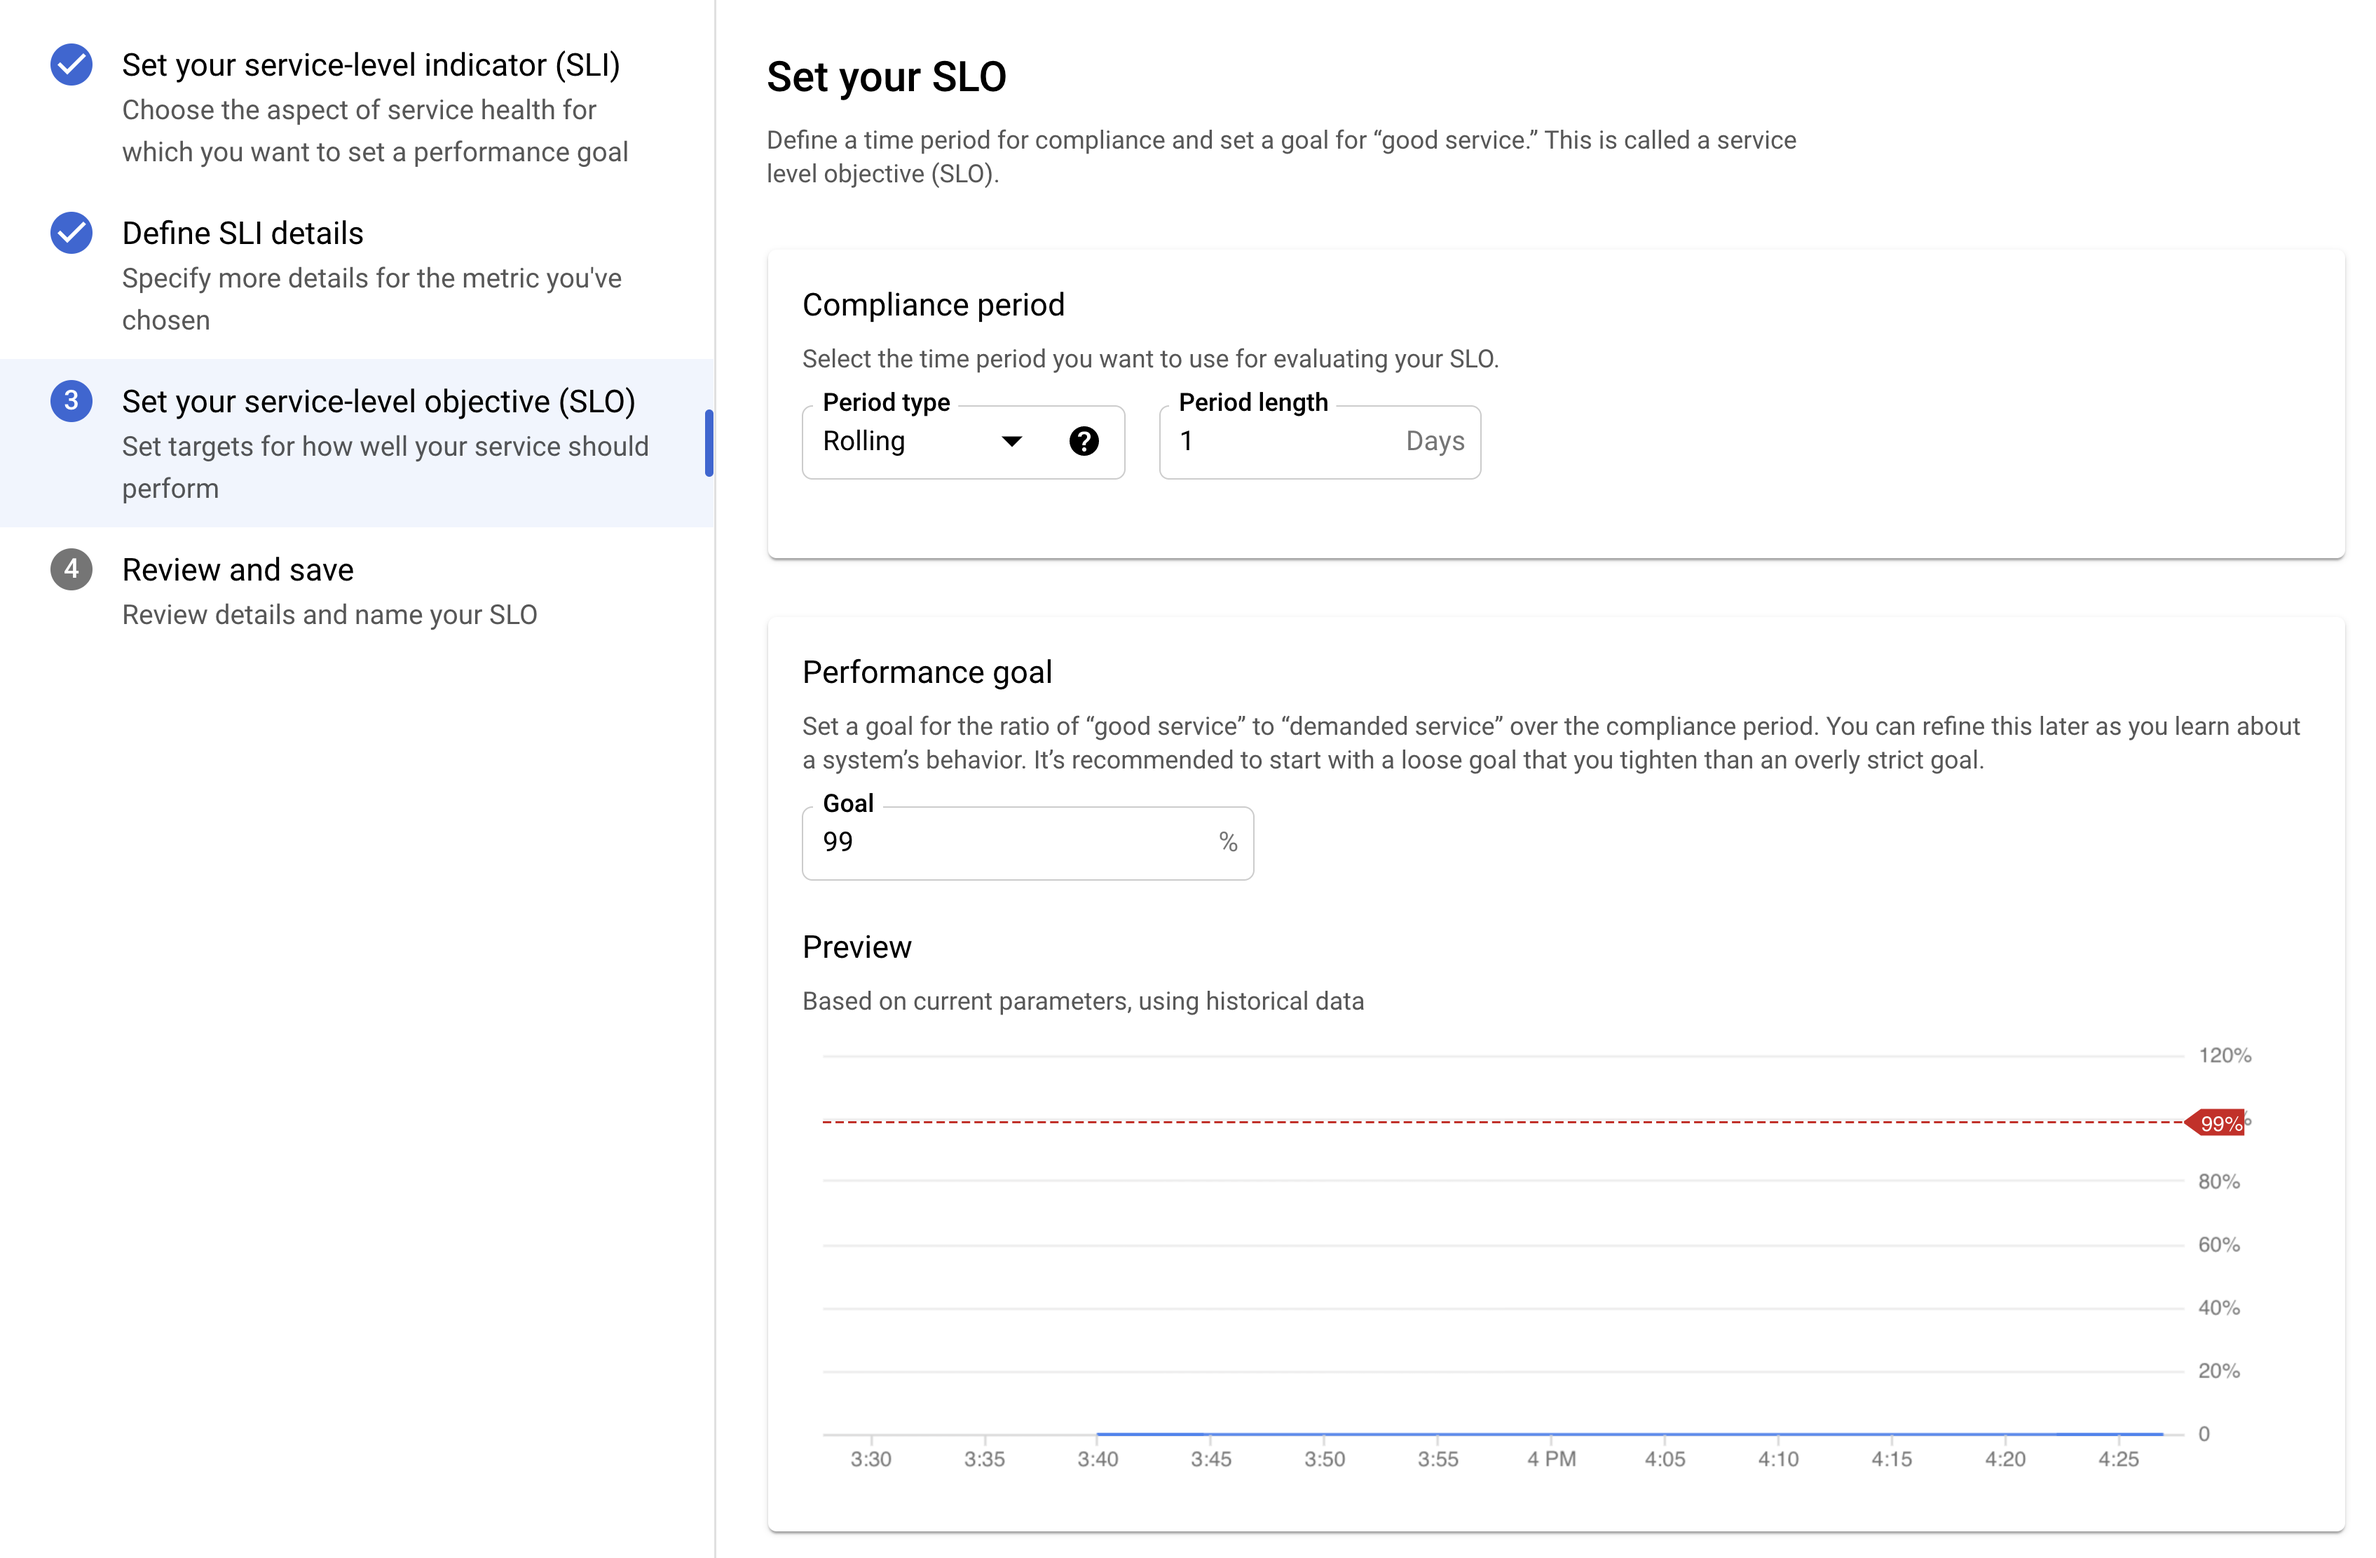
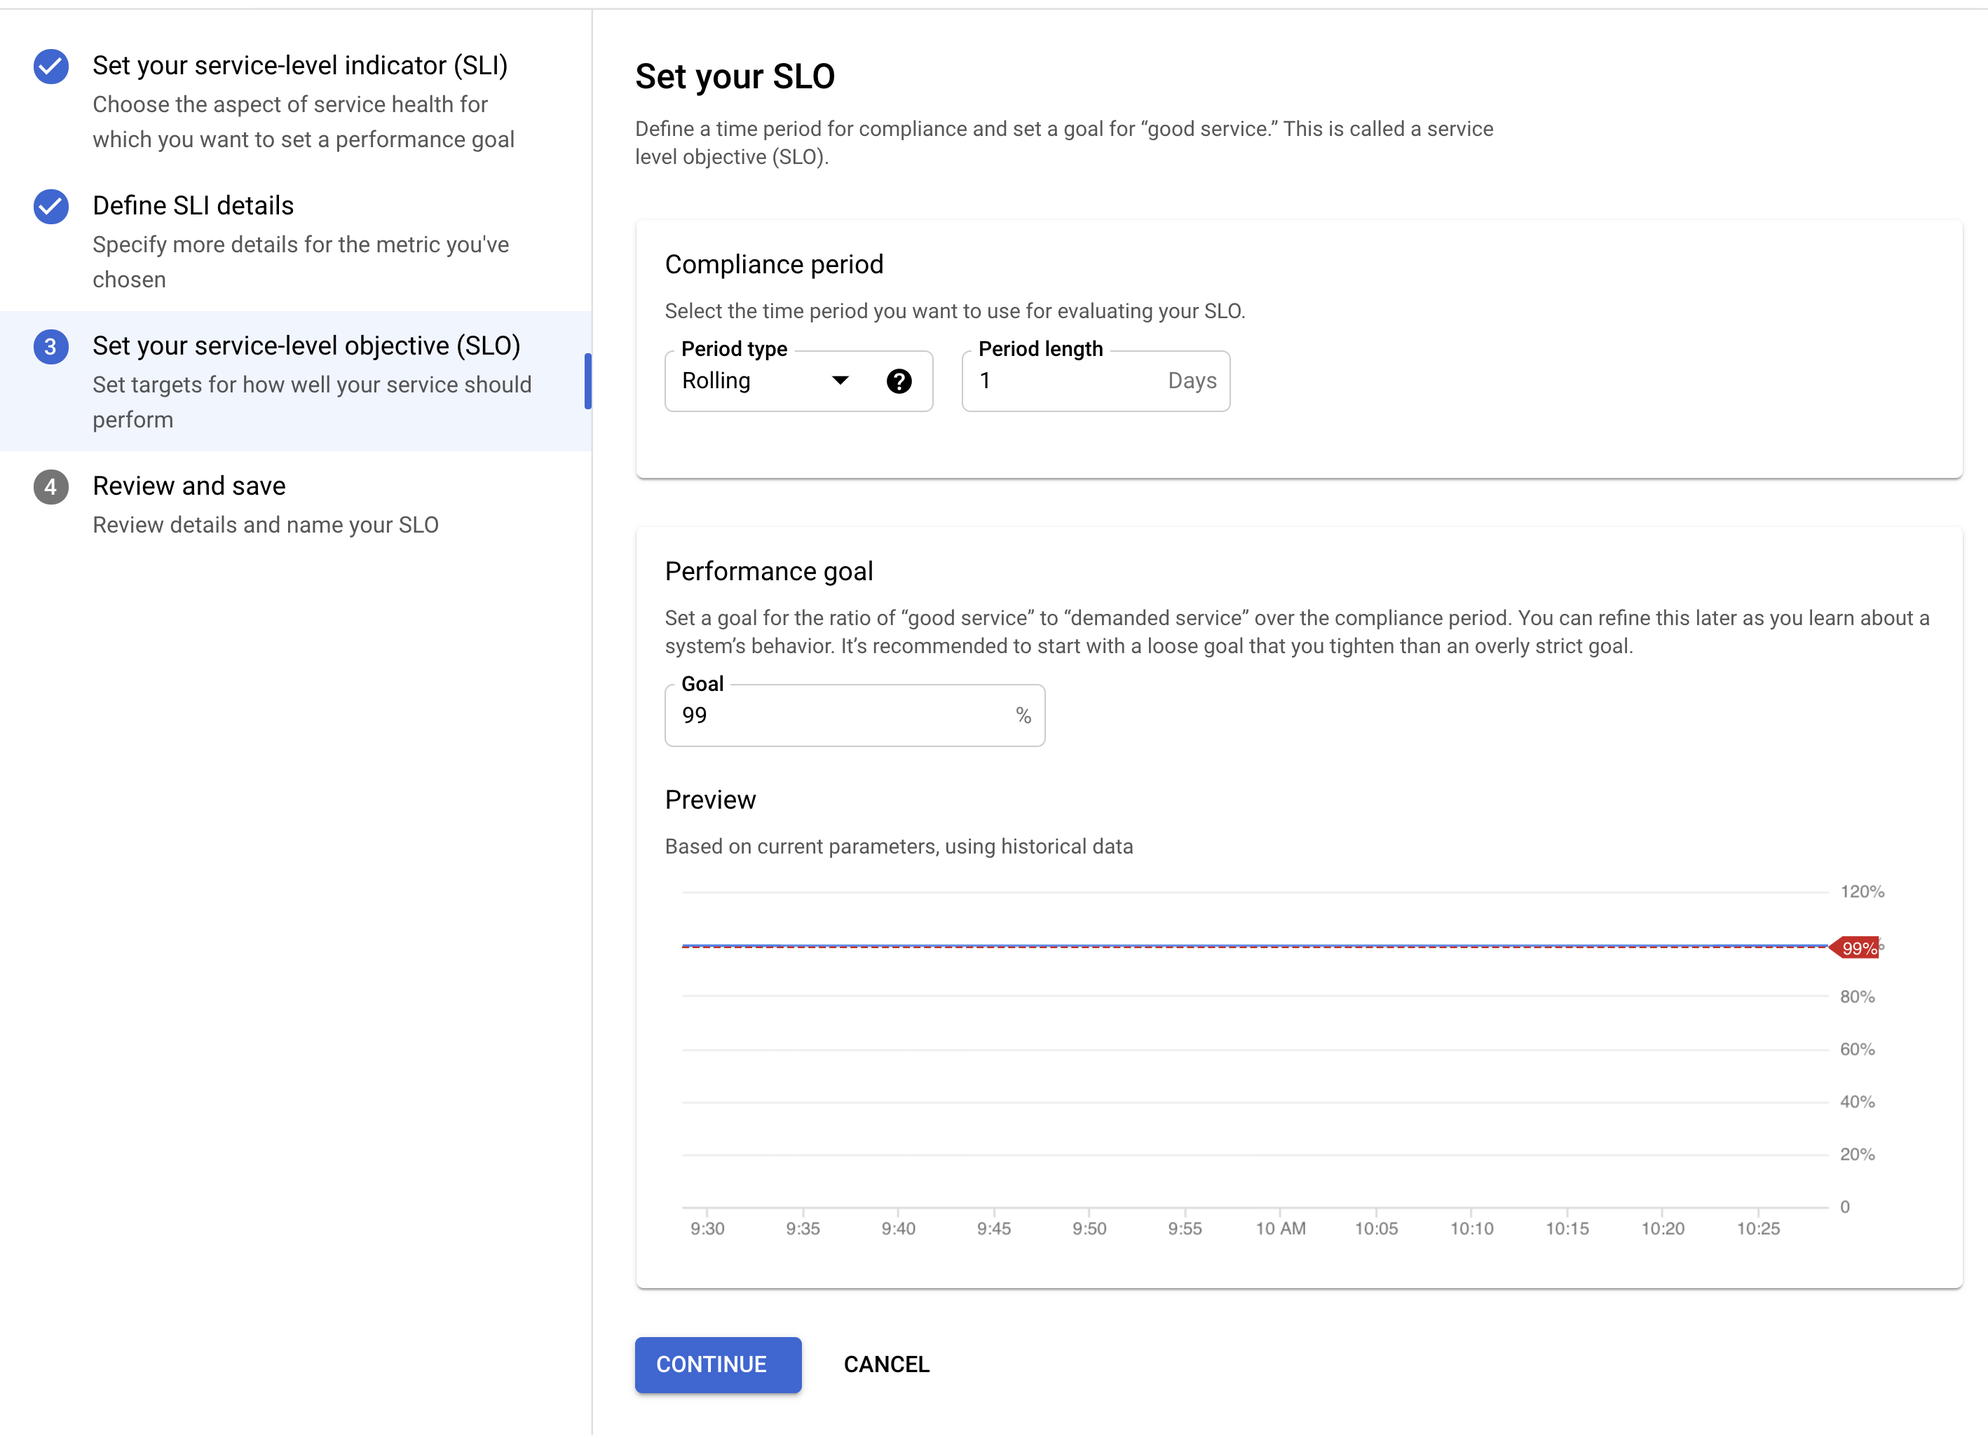
save

diff --git a/README.md b/README.md
@@ -107,11 +107,11 @@ Now that we know what SLOs are and how ASM generates the SLI metrics for us, let
 
 ![](screenshots/txn-overview.png)
 
-#### 2. Set the SLI to **latency** and **request-based**. Click **Continue.** 
+#### 2. Set the SLI to **Availability** and **request-based**. Click **Continue.** 
 
 ![](screenshots/slo1.png)
 
-#### 3. Set the latency threshold to **100ms**. Click **Continue**. 
+#### 3. View the **Define SLI Details** preview window, then click **continue.** 
 
 ![](screenshots/slo2.png)
 
@@ -123,13 +123,15 @@ Now that we know what SLOs are and how ASM generates the SLI metrics for us, let
 
 ![](screenshots/slo4.png)
 
-#### 6. You should be redirected to the Health page for the transactionhistory service, and you should see your new SLO in the list. It should be passing, with a green check-mark on the left side of the screen. 
+#### 6. You should be redirected to the Health page for the transactionhistory service, and you should see your new availability SLO in the list. It should be passing, with a green check-mark on the left side of the screen. 
 
 ![](screenshots/passing-slo.png)
 
 #### 7. Click the drop-down error in your SLO, and click **Error budget.** 
 
-The [error budget of an SLO](https://cloud.google.com/stackdriver/docs/solutions/slo-monitoring#defn-error-budget) is `1 minus the SLO` - so in our case, we have an error budget of **1%** because the SLO performance goal is **99%**. Because our SLO is based on latency, the error budget means that only 1% (or less) of requests in the last day can take longer than 10 milliseconds. 
+The [error budget of an SLO](https://cloud.google.com/stackdriver/docs/solutions/slo-monitoring#defn-error-budget) is `1 minus the SLO` - so in our case, we have an error budget of **1%** ("bad" requests over the last 24 hours) because the SLO performance goal is **99%**. 
+
+![](screenshots/error-budget.png)
 
 ## Part C - Setting up SLO Alerting 
 
@@ -147,14 +149,16 @@ You can set up alerting using the [Console](https://cloud.google.com/stackdriver
 
 #### 4. Return to the ASM dashboard and navigate back to [your transactionhistory Service Health dashboard](https://console.cloud.google.com/anthos/services/service/default/transactionhistory/health). 
 
-#### 5. Next to your Latency SLO, click **Create SLO Alert.** 
+#### 5. Next to your Availability SLO, click **Create SLO Alert.** 
 
-ASM SLO alerting is based on something called **[burn rate](https://cloud.google.com/stackdriver/docs/solutions/slo-monitoring/alerting-on-budget-burn-rate)**, which is a measure of how fast you're consuming, or "burning," through your error budget. What this means is that you can set up an alert to fire even before your SLO fails. 
+ASM SLO alerting is based on something called **[burn rate](https://cloud.google.com/stackdriver/docs/solutions/slo-monitoring/alerting-on-budget-burn-rate)**, which is a measure of how fast you're consuming, or "burning," through your error budget. What this means is that you can set up an alert to fire before your SLO actually fails. 
 
 #### 6. In the Create SLO Alert window, set the following fields:
-- Keep the default Display Name (`Burn rate on 99% - Latency - Rolling day`). 
+- Keep the default Display Name (`Burn rate on 99% - Availability - Rolling day`). 
 - Set `Lookback Duration` to **1 minute**. 
 - Keep the default `Burn rate threshold` (10).
+
+![](screenshots/create-slo-alert.png)
 
 Then, click **Next.** 
 
@@ -172,9 +176,9 @@ Now on the right side of the Health view for transactionhistory, you should see 
 
 ## Part D - Debugging a Service with ASM 
 
-Let's simulate a service outage in order to break our transactionhistory SLO and fire the alert to our email. To do this, we'll pretend that we're updating the transactionhistory service with some new configuration, and this causes an unexpected outage. 
+Let's simulate a service outage in order to break our transactionhistory SLO and fire the alert to our email. To do this, we'll simulate a new release of transactionhistory that causes a 100% error rate - effectively bringing down the entire service. We have provided a transactionhistory image (`gcr.io/bank-of-anthos/transactionhistory:v0.4.3-simulate-outage`) that returns a 500 error for every HTTP endpoint.   
 
-#### 1. Return to the terminal, and apply an updated transactionhistory deployment. (To simulate an outage scenario, this Deployment has 5 seconds of injected latency for every request.) 
+#### 1. Return to the terminal, and apply the simulated outage resource. 
 
 ```
 kubectl apply -f simulate-outage/transactionhistory.yaml
@@ -187,52 +191,18 @@ deployment.apps/transactionhistory configured
 service/transactionhistory unchanged
 ```
 
-#### 2. Wait for the new transactionhistory pod to be ready, and for the old pod to terminate.  
+#### 2. Navigate back to the ASM dashboard for the transactionhistory service, and from the left sidebar, click **Metrics.** 
 
-```
-kubectl get pods | grep transactionhistory
-```
-
-Expected output (after 1-2 minutes): 
-
-```
-transactionhistory-68bb6559b4-b9n2v   2/2     Terminating   0          74m
-transactionhistory-6b699f4b96-gdqnv   2/2     Running       0          72s
-```
-
-#### 3. Navigate back to the ASM dashboard for the transactionhistory service, and from the left sidebar, click **Metrics.** 
-
-Scroll down to **Latency.** We should be able to watch the generated metrics flow in, and we should see a major latency spike, from ~5 milliseconds on average per request, up to 4 or 5 seconds. 
+Scroll down to **Error rate.** We should be able to watch the generated metrics flow in, and we should eventually see a 100% error rate for transactionhistory, 
 
 ![](screenshots/latency-spike.png)
 
 Under the hood, the ASM SLO is rapidly burning through its error budget for the number of transactionhistory requests that can exceed the 10 millisecond threshold. (Because 100% of requests, now, exceed that SLO threshold.) This means we just caused transactionhistory to exceed its burn rate threshold of 10%. 
 
-#### 4. Navigate to your email inbox to view the SLO alert email.
+#### 3. Return to the transactionhistory "Health" view. You should soon see an alert firing. 
 
-Let's pretend that we don't know what's causing this latency in transactionhistory - in a real outage scenario, it's unlikely that you'll know right away what caused the issue. ASM and Google Cloud provide several tools to help you debug during service degradation. 
 
-####  5. From the transactionhistory view in the ASM dashboard, click **Diagnostics.**
-
-Here, we can see all recent error logs for this service. 
-
-![](screenshots/diagnostics.png)
-
-We can also click "Open Logs Viewer" to see Info, Warning, and Debug-level logs for this service. 
-
-![](screenshots/all-logs.png)
-
-We can also view Traces for the transactionhistory service. Traces allow us to see how long each part of a request takes. This feature is especially helpful in a microservices setup, where "cascading failures" cause problems in 1 service to propagate to other upstream services. Anthos Service Mesh supports "service level traces" (meaning you can see traces down to the service-level). You can use OpenTelemetry or OpenCensus to instrument your services to allow for more granular, request-level traces within each service (for instance, how long a specific function spent on a given request). The Bank of Anthos dashboard has been instrumented for request-level traces. 
-
-#### 6. Navigate to the [Cloud Trace dashboard](https://console.cloud.google.com/traces/list). Click on **Trace list.** 
-
-![](screenshots/trace-list.png)
-
-You should see most requests only take a few milliseconds, but you should also see a few recent outliers taking ~5 seconds. 
-
-#### 7. Click on one of those outlier traces - it should correspond to a request involving the transaction history service. (So if we didn't know which service update caused the SLO failure, now we have an idea that transactionhistory is involved.) If you scroll down, you should see details about this trace - for instance, the method  (`getTransactions`) and specific URL. 
-
-![](screenshots/txn-trace.png)
+### 4. Navigate to your email inbox. 
 
 ## Learn More 
 
